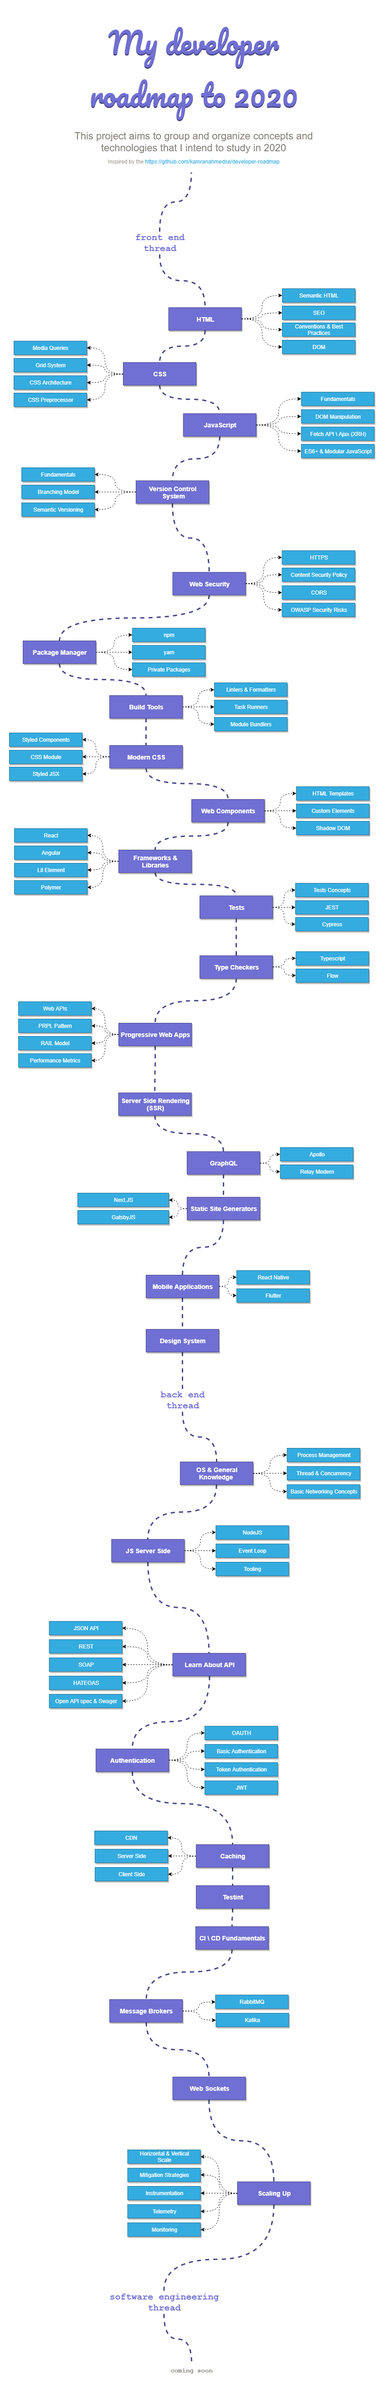
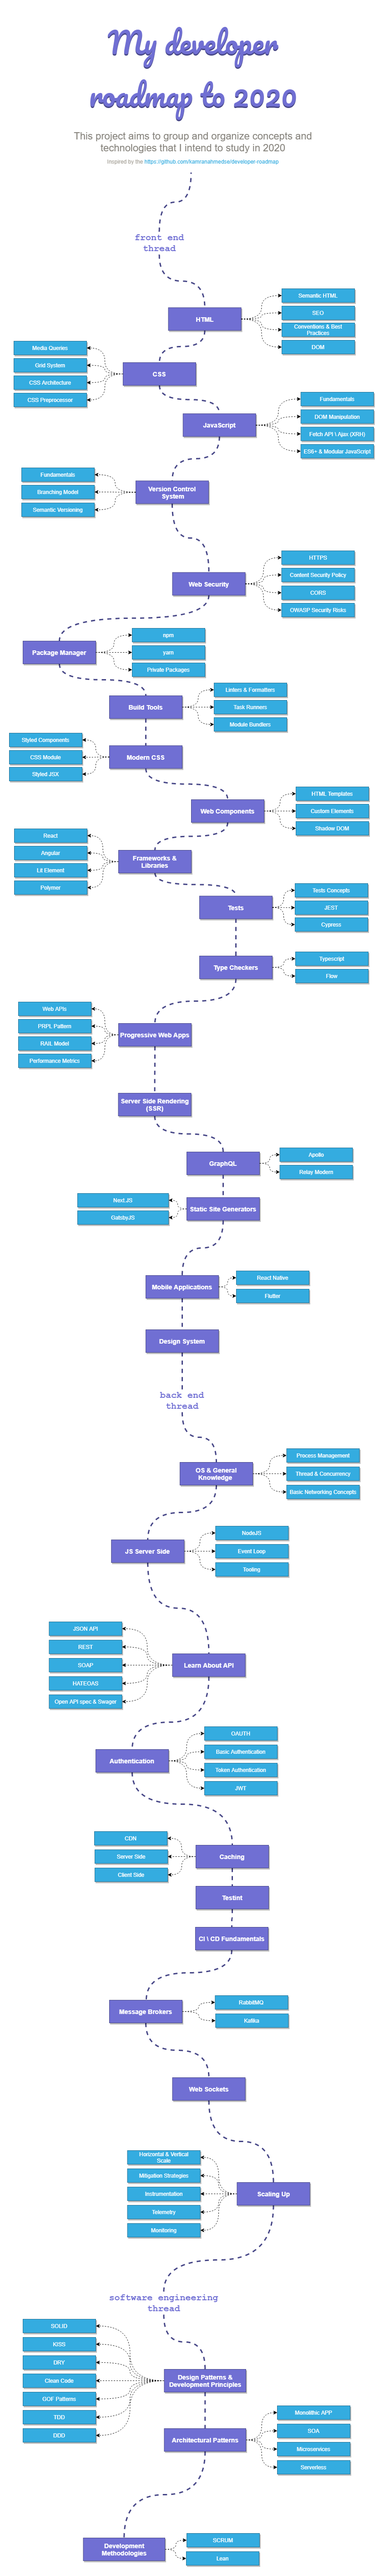
fix #1 - Adding software engineering thread

Changed region(s): [[0.0, 0.0, 0.9858, 1.0], [0.0308, 0.1245, 0.2773, 0.2178]]

diff --git a/README.md b/README.md
@@ -3,7 +3,7 @@ This project aims to group and organize concepts and technologies that I intend 
 
 <sub>Inspired by the [kamranahmedse/developer-roadmap](https://github.com/kamranahmedse/developer-roadmap)</sub>
 
-![Roadmap](./assets/my-developer-roadmap-2020.png)
+[Roadmap](./assets/my-developer-roadmap-2020.png)
 
 ## Front End Thread
 
@@ -116,4 +116,19 @@ This project aims to group and organize concepts and technologies that I intend 
     - Monitoring
 
 ## Software Engineering Thread
-<sub>coming soon</sub>
+1. <b>Design Patterns & Development Principles</b>
+    - SOLID Principles
+    - KISS Principles
+    - DRY Principles
+    - Clean Code
+    - GOF Patterns
+    - TDD
+    - DDD    
+1. <b>Architectural Patterns</b>
+    - Monolithic APP
+    - SOA
+    - Microservices
+    - Serveless
+1. <b>Development Methodologies</b>
+    - SCRUM
+    - Lean
